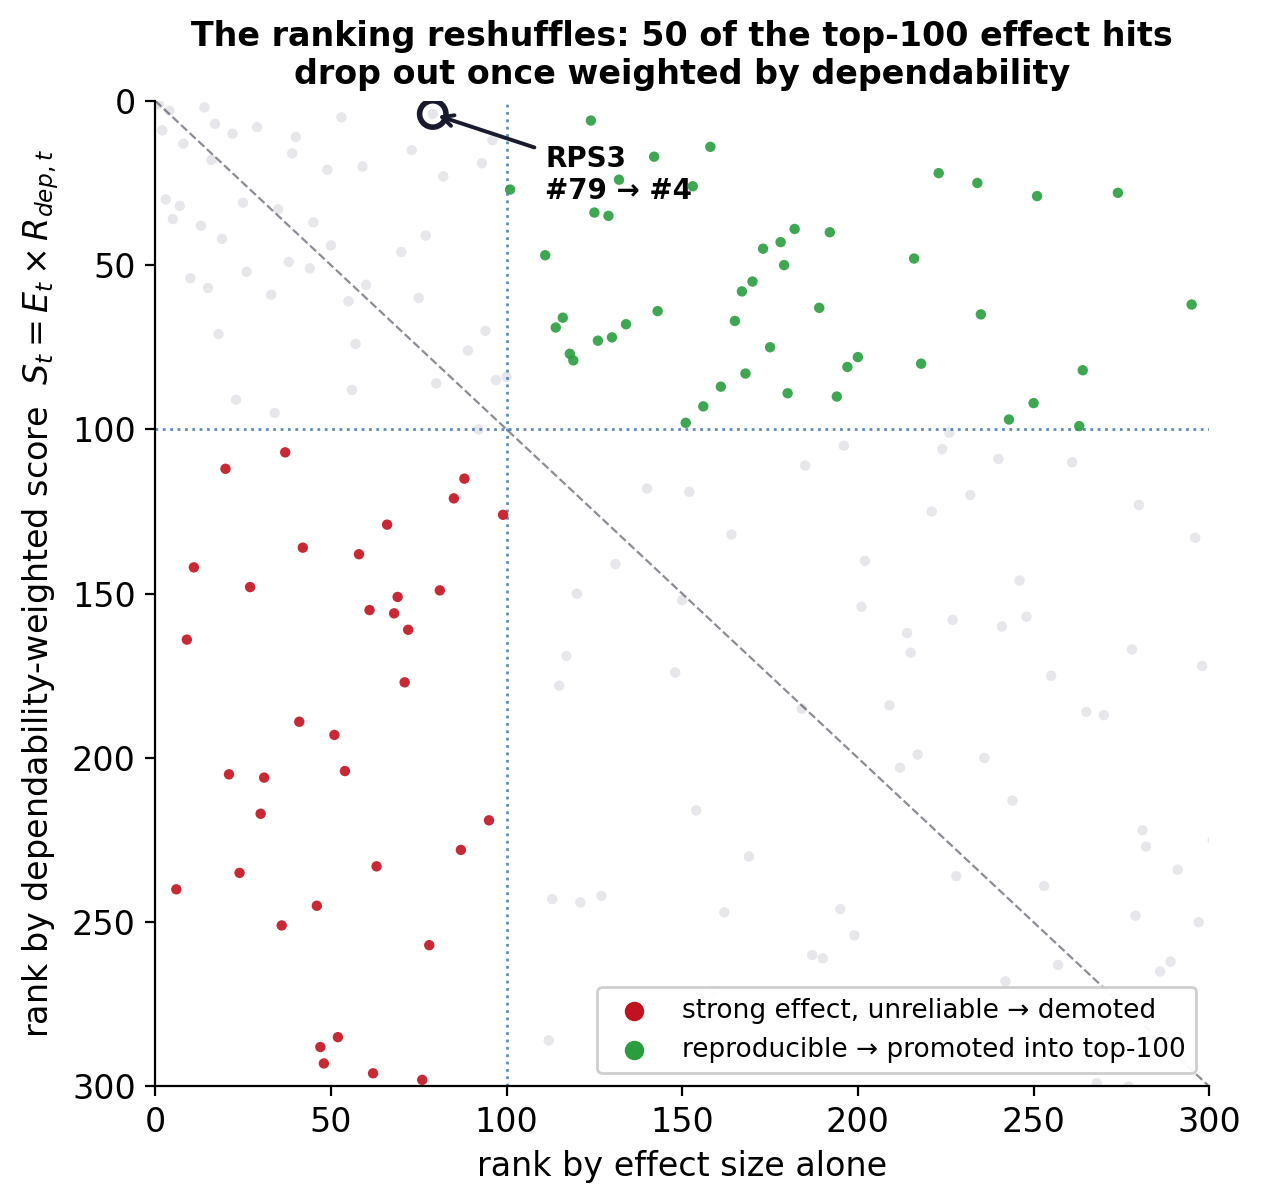
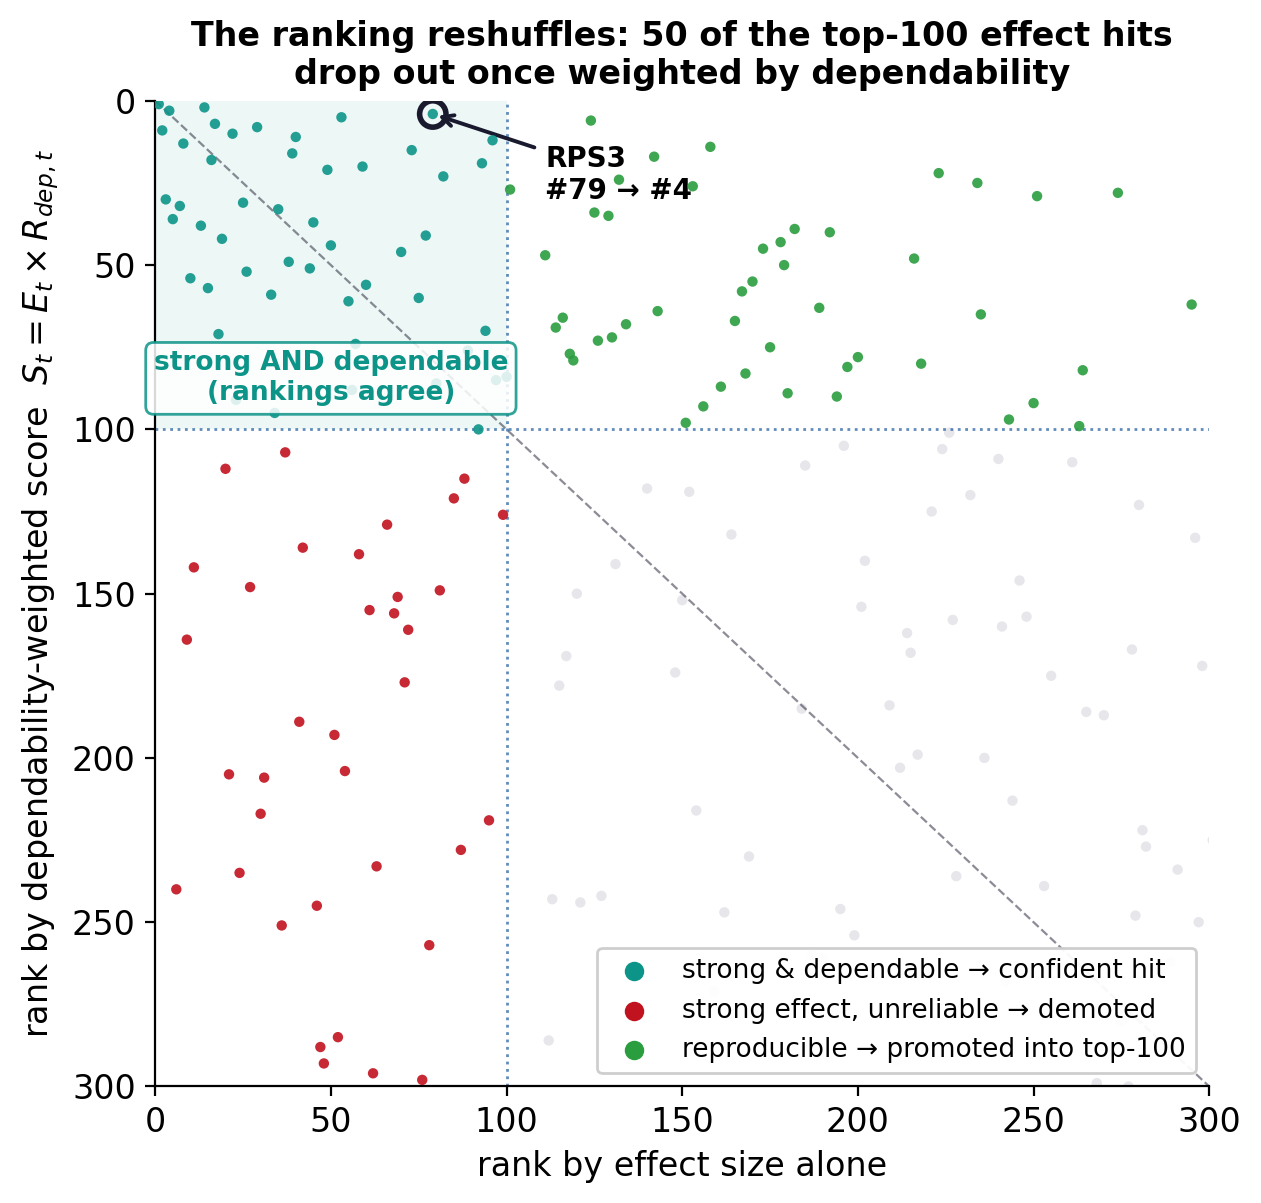
docs(manuscript): quantify RQ1 reordering (Spearman rho=.74) + RPS3 callout; interpret Erho^2; mark the agree quadrant in fig3; add repo URL; anchor 'shortlist'
RQ1 now reports the effect-vs-dependability ranking correlation (Spearman rho=.74 over
7,258 scored targets: broad order preserved, shortlist turns over) and names RPS3
(79th by effect, 4th by dependability) as the labelled figure example; this also drops
the lone 'candidate list' so the term is uniformly 'shortlist', anchored on first use
in section 1 as 'the shortlist of targets taken forward for validation'.

RQ3 now interprets Erho^2~.44 as a reliability: the correlation expected between this
screen's target scores and an independent replication's, equivalently the fraction of
between-target variance that is real difference vs guide-and-donor sampling error.

fig3 marks the upper-left agreement quadrant (strong AND dependable -> confident hit)
with a teal region, points, label, and legend entry; caption describes all four
quadrants; churn docstring 49->50. Reproducibility cites
https://github.com/kiki830621/G-perturb. Recompiles clean (16pp).

diff --git a/manuscript/main.tex b/manuscript/main.tex
@@ -110,7 +110,8 @@ questions, moving from the present screen to future ones:
 \begin{itemize}
   \item \emph{RQ1 (per target):} which targets carry a dependable effect, one that
   would recur under a fresh guide and a fresh donor, and does ranking targets by that
-  dependability reorder the shortlist that effect size alone produces?
+  dependability reorder the shortlist of targets taken forward for validation
+  that effect size alone produces?
   \item \emph{RQ2 (in context):} within each activation state (Rest, Stim8hr,
   Stim48hr), does per-target dependability separate a context-specific signal from
   noise and reconstruct a coherent biological module?
@@ -369,11 +370,14 @@ the measurement design (RQ3, RQ4).
 \subsection{Reliability-weighted ranking reorders the shortlist}
 
 RQ1 asks whether ranking targets by dependability reorders the shortlist that effect
-size alone produces. It does: ranking by $S_t$ reorders the candidate list relative to
-effect size alone (Figure~\ref{fig:rank}). Of the $100$ highest-effect targets, $50$ fall out
-of the $100$ most dependable, and reproducible targets that effect size underranks
-rise (Table~\ref{tab:rankshift}). These are the targets a dependability-weighted
-screen would nominate for validation but a strength-ranked screen would overlook.
+size alone produces. It does. Ranking by $S_t$ correlates with the effect-size ranking
+at a Spearman $\rho = .74$ over the $7{,}258$ scored targets: the broad order is
+preserved, but the shortlist itself turns over, with $50$ of the $100$ highest-effect
+targets falling out of the $100$ most dependable (Figure~\ref{fig:rank}). Reproducible
+targets that effect size underranks rise in their place (Table~\ref{tab:rankshift});
+RPS3 is the clearest case, $79$th by effect size but $4$th once weighted by its
+dependability of $.34$. These are the targets a dependability-weighted screen would
+nominate for validation but a strength-ranked screen would overlook.
 The contribution is a shortlist that effect size alone cannot produce: it demotes
 strong but fragile hits, which spend validation capacity without confirming, and
 promotes reproducible effects that a strength ranking buries.
@@ -382,9 +386,11 @@ promotes reproducible effects that a strength ranking buries.
   \centering
   \includegraphics[width=0.78\linewidth]{fig3_ranking_reshuffle.pdf}
   \caption{Rank by effect size alone (horizontal) against rank by the
-  dependability-weighted score (vertical). Points below the diagonal in the
-  lower-left quadrant are demoted (strong but unreliable); points in the upper
-  right are promoted (reproducible).}
+  dependability-weighted score (vertical); the dotted lines mark the top $100$ on
+  each axis. The upper-left quadrant holds targets that are both strong and
+  dependable, where the two rankings agree; lower-left targets are strong but
+  unreliable and are demoted; upper-right targets are reproducible and are promoted.
+  RPS3 is circled.}
   \label{fig:rank}
 \end{figure}
 
@@ -460,9 +466,13 @@ test ($r \approx 0$), so the correction introduces no signal where none exists.
 
 With measurement error removed, the panel generalizability coefficient for the
 current design, two guides and four donors, on the representative signal genes is
-$E\rho^2 \approx .44$. This is a moderate value: adequate for ranking, where only the
-order of targets matters, but short of the $.70$ that an absolute per-target threshold
-would demand. This calibrates how far the screen can be trusted. Its rankings can be
+$E\rho^2 \approx .44$. Read as a reliability, this is the correlation expected between
+the target scores this screen produces and those an independent replication with fresh
+guides and donors would produce, and equivalently the fraction of the between-target
+variance in the measured effects that reflects real target-to-target difference rather
+than guide-and-donor sampling error. This is a moderate value: adequate for ranking,
+where only the order of targets matters, but short of the $.70$ that an absolute
+per-target threshold would demand. This calibrates how far the screen can be trusted. Its rankings can be
 relied on, yet no single target's dependability clears an absolute bar, so
 dependability is a prioritization signal for the panel rather than a certificate for
 any one target read in isolation.
@@ -537,7 +547,8 @@ processing the full single-cell data: data retrieval, a checksummed evidence
 manifest, identifiability gates, synthetic method selection, per-gene
 decomposition, measurement-error removal, the reliability-weighted ranking, the
 per-context analysis, and the design study. All results are committed as tables and figures, and every reported
-number regenerates from a single re-run. The code is released under Apache-2.0.
+number regenerates from a single re-run. The code is released under Apache-2.0 at
+\url{https://github.com/kiki830621/G-perturb}.
 
 \section{Limitations}
 

diff --git a/analysis/resolution/realdata/make_figures.py b/analysis/resolution/realdata/make_figures.py
@@ -4,7 +4,7 @@
 Reads the committed result artifacts and renders 5 figures (PNG @200dpi + PDF) into figures/:
   fig1_me_removal        me-removal reveal (40 -> 7,674 dependable genes)
   fig2_dstudy_surface    D-study Erho2 surface (guides x donors) — add guides, not donors
-  fig3_ranking_reshuffle effect-only vs reliability-weighted ranking (49/100 churn, RPS3 #79->#4)
+  fig3_ranking_reshuffle effect-only vs reliability-weighted ranking (50/100 churn, RPS3 #79->#4)
   fig4_context_tcr       context-specific reliability — the TCR module, reliable only when activated
   fig5_sol_hardening     IDD ledger -> Sol BLOCKED (11 findings) -> resolution (schematic)
 All numbers come from the files; nothing hard-coded that the data can supply.
@@ -101,9 +101,11 @@ def fig3():
     fig, ax = plt.subplots(figsize=(6.8, 6.4))
     N = 300  # plot targets in either top-N by effect or by reliability
     pts = [t for t in rE if rE[t] <= N or rS[t] <= N]
+    ax.add_patch(plt.Rectangle((0, 0), 100, 100, facecolor=TEAL, alpha=0.07, zorder=0))  # agreement region
     for t in pts:
         e, s = rE[t], rS[t]
-        if e <= 100 and s > 100:   col, z, a = RED, 4, 0.9      # dropped out (strong but unreliable)
+        if e <= 100 and s <= 100:  col, z, a = TEAL, 5, 0.9     # strong AND dependable (rankings agree)
+        elif e <= 100 and s > 100: col, z, a = RED, 4, 0.9      # dropped out (strong but unreliable)
         elif s <= 100 and e > 100: col, z, a = GREEN, 4, 0.9    # promoted (reproducible)
         else:                      col, z, a = GRAY, 1, 0.35
         ax.scatter(e, s, s=14, color=col, alpha=a, zorder=z, edgecolors="none")
@@ -114,10 +116,14 @@ def fig3():
         ax.scatter([rE["RPS3"]], [rS["RPS3"]], s=90, facecolors="none", edgecolors=INK, linewidths=2, zorder=6)
         ax.annotate("RPS3\n#79 → #4", xy=(rE["RPS3"], rS["RPS3"]), xytext=(rE["RPS3"] + 32, rS["RPS3"] + 26),
                     fontsize=10, fontweight="bold", arrowprops=dict(arrowstyle="->", color=INK, lw=1.4))
+    ax.text(50, 93, "strong AND dependable\n(rankings agree)", ha="center", va="bottom",
+            fontsize=9.5, fontweight="bold", color=TEAL, zorder=7,
+            bbox=dict(boxstyle="round,pad=0.3", fc="white", ec=TEAL, alpha=0.85))
     ax.set_xlim(0, N); ax.set_ylim(N, 0)  # invert y so rank 1 top
     ax.set_xlabel("rank by effect size alone"); ax.set_ylabel("rank by dependability-weighted score  $S_t = E_t \\times R_{dep,t}$")
     ax.set_title(f"The ranking reshuffles: {churn} of the top-100 effect hits\ndrop out once weighted by dependability",
                  fontsize=12, fontweight="bold")
+    ax.scatter([], [], color=TEAL, label="strong & dependable → confident hit")
     ax.scatter([], [], color=RED, label="strong effect, unreliable → demoted")
     ax.scatter([], [], color=GREEN, label="reproducible → promoted into top-100")
     ax.legend(loc="lower right", fontsize=9.5, framealpha=0.95)